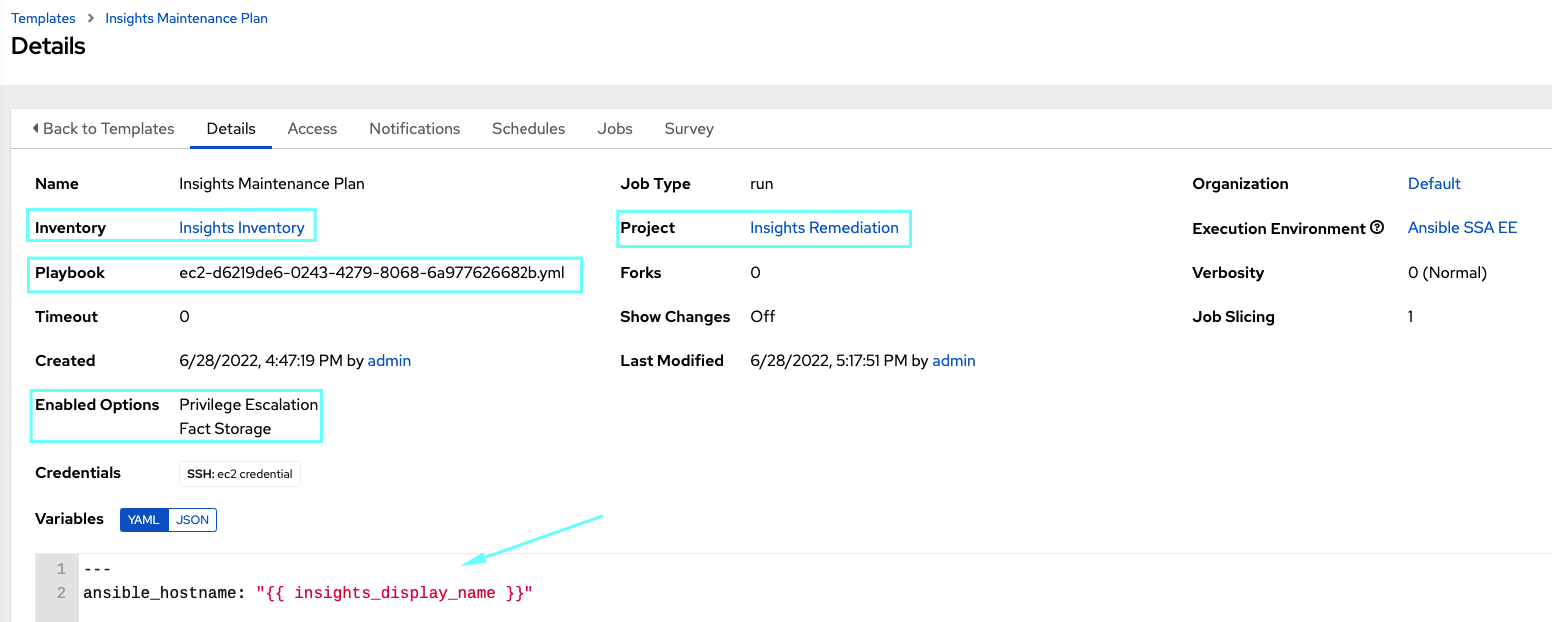
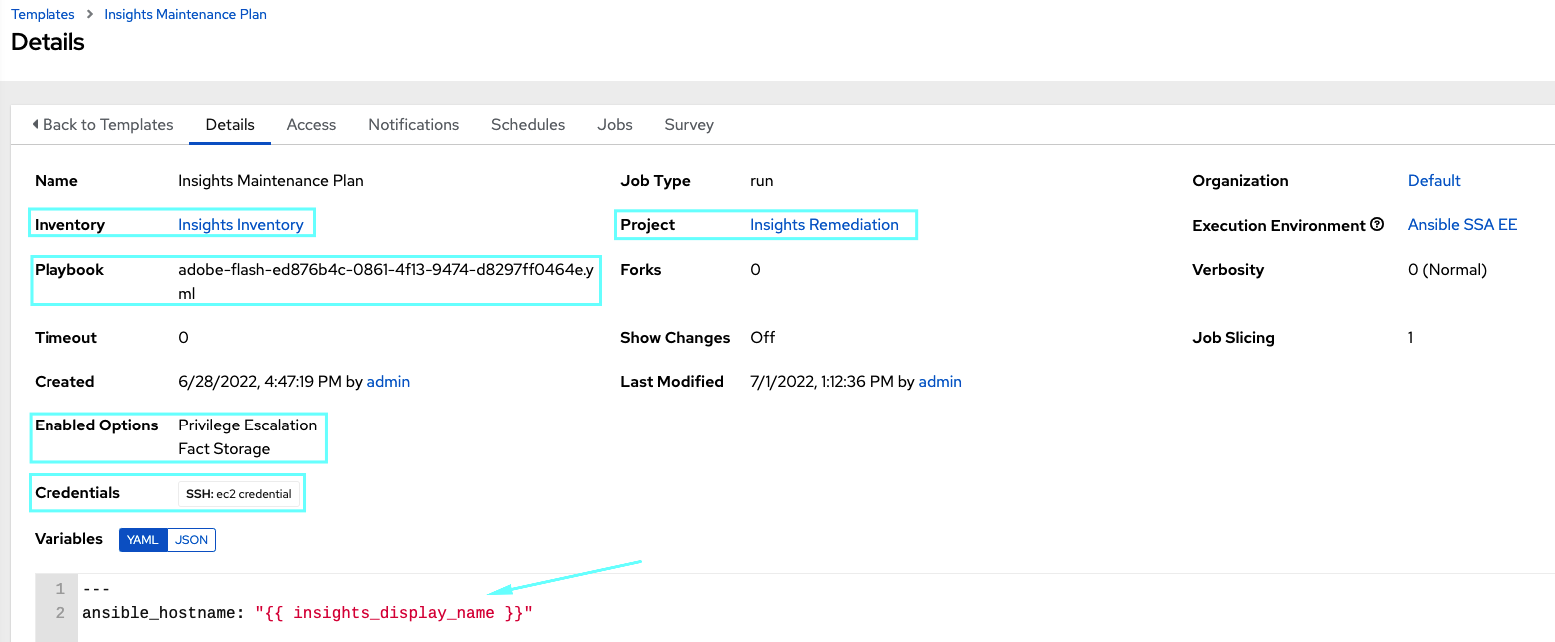
finalizar documentación con más imágenes

diff --git a/roles/insights-registration/Insights_AAP2_Integration.md b/roles/insights-registration/Insights_AAP2_Integration.md
@@ -61,9 +61,13 @@ NOTE: This value interacts with the `insights-client --display-name` command. If
 
 NOTE: In this demo, we use the role [Insights Registration](https://github.com/amayagil/deploy_machines/tree/main/roles/insights-registration) to set the correct display-name instead of manually setting it with the `insights-client --display-name` command.
 
+Further information on Insights naming can be found in the product official documentation [Configuring Insights client](https://access.redhat.com/documentation/en-us/red_hat_insights/2022/html/client_configuration_guide_for_red_hat_insights/configuring_insights_client#proc-changing-host-display-name_insights-client-cg).
+
 Force Insights Issue
 --------------
-In order to show a common security vulnerability on Red Hat Linux systems, we are forcing our machines to have installed the adobe flash plugin. In order to do that we can use the `prepare-insights-issue.yml` playbook, available on this demo. Do this before running the next template.
+In order to show a common security vulnerability on Red Hat Linux systems, we are forcing our machines to have installed the adobe flash plugin. As this is a common issue, the Adobe Flash plugin for Firefox has been deprecated in Linux for several years now, and Flash itself is now officially unsupported by Adobe. You can find more info on this [kb](https://access.redhat.com/solutions/3756821).
+
+In order to install the plugin, in this demo we use the `prepare-insights-issue.yml` playbook, available on [here](https://github.com/amayagil/deploy_machines/blob/main/prepare-insights-issue.yml). Do this before running the next template.
 
 Once we've run that playbook, we would be able to see all our systems hitting the security vulnerability "Decreased security: Adobe Flash Player installed", as shown in the image below:
 
@@ -71,7 +75,7 @@ Once we've run that playbook, we would be able to see all our systems hitting th
 
 Since that has a playbook to remediate, we will generate one in the Insights console for its use with Ansible Automation Platform as follows.
 
-On the Advisor --> Recommendations menu, we select the machines affected by the vulnerabily and click on remediate, which will allow us to create a remediation playbook (we will call this adobe-flash, but feel free to chose your prefered name).
+On the `Advisor` --> `Recommendations` menu, we select the machines affected by the vulnerabily and click on remediate, which will allow us to create a remediation playbook (we will call this `adobe-flash`, but feel free to chose your prefered name).
 
 ![Insight Remmediation Playbook](https://github.com/amayagil/deploy_machines/blob/main/images/insights-pb.png?raw=true)
 
@@ -79,5 +83,26 @@ IMPORTANT: do not forget to sync your project, so it can pull the latest remedia
 
 Remediate Insights Inventory
 --------------
+We now simply need to create a remediation template in our Automation Controller as follows.
+
+The important fields you need to field are:
+* Inventory: Select the Insights Inventory you previously created.
+* Project: Select the Insights project you previously created.
+* Playbook: Select a playbook associated with the Maintenance Plan you want to run from the drop-down menu list. In this case, it is the `adobe-flash` we previously created.
+* Credential: the machine credentials you use in order to log into your machines.
+* Make sure you select "Privilege Escalation"
+* Add the `ansible_hostname: "{{ insights_display_name }}"` to the variables box in order for Ansible to use the `insights_display_name` as the hostname.
 
 ![Insight Remediation Template](https://github.com/amayagil/deploy_machines/blob/main/images/insights-template.png?raw=true)
+
+Now, simply launch the template and wait for its successful output.
+
+![Insight Remediation Template Output](https://github.com/amayagil/deploy_machines/blob/main/images/insights-template-output.png?raw=true)
+
+Last, go to the [Insights console](https://console.redhat.com/insights) and verify that the remediation plabook has solved the issue in all your systems. To do that, go to `Remediations` left menu and select `adobe-flash` where you will be able to see the issue has been remediated in your systems.
+
+![Insight Remediation Output](https://github.com/amayagil/deploy_machines/blob/main/images/insights-remediation.png?raw=true)
+
+And just for the fun of double cheching, on the `Advisor` --> `Recommendations` menu, we can see, the issue has disappeared as well.
+
+![Insight Advisor](https://github.com/amayagil/deploy_machines/blob/main/images/insights-advisor.png?raw=true)
